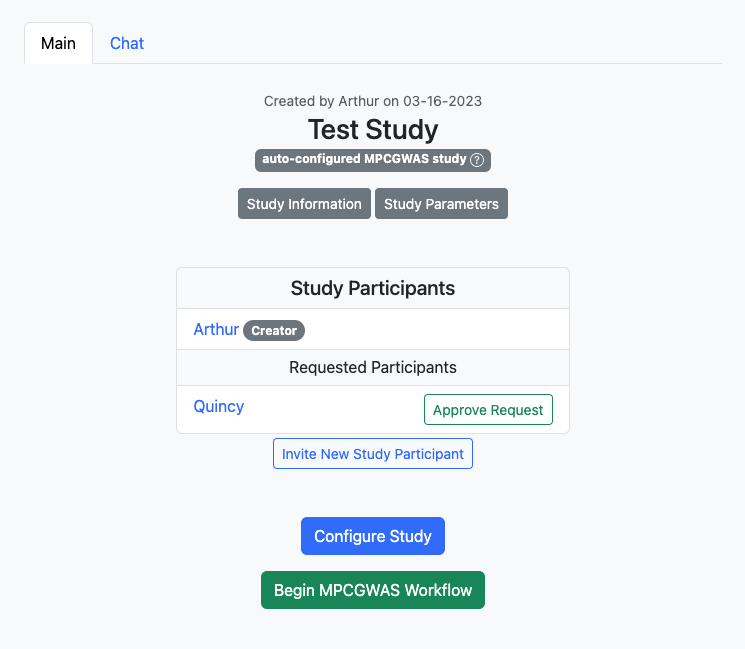
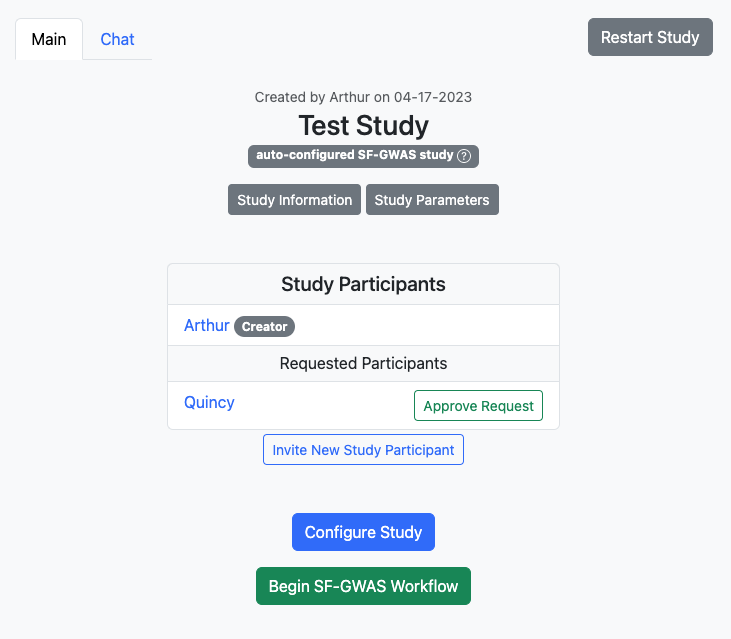
mostly aesthetic changes to the tutorials

diff --git a/src/templates/general/utils/two_person_tutorial.html b/src/templates/general/utils/two_person_tutorial.html
@@ -123,17 +123,23 @@
 
   <div class="mt-4">
     <p>
-      User 2 can then click the "Request to Join Study" button in the Studies page to request to join User 1's study.
+      User 2 can then click the
+      <button class="btn btn-outline-primary btn-sm" style="pointer-events: none;">Request to Join Study</button>
+      button in the Studies page to request to join User 1's study.
     </p>
-    <div class="text-center">
+    <div class="text-center mb-1">
       <img class="img-fluid border border-secondary" style="max-width: 65%" src="static/images/tutorial/request_join.png" alt="">
     </div>
-    <p>Once they have done so, User 1 can click the "Approve Request" button to accept User 2 into their study.</p>
-    <div class="text-center">
+    <p>Once they have done so, User 1 can click the
+      <button class="btn btn-outline-success btn-sm" style="pointer-events: none;">Approve Request</button>
+      button to accept User 2 into their study.</p>
+    <div class="text-center mb-1">
       <img class="img-fluid border border-secondary" style="max-width: 50%" src="static/images/tutorial/approve_request.png" alt="">
     </div>
     <p>
-      <span class="text-muted">(Alternatively, User 1 can invite User 2 with the "Invite New Study Participant" button to send an invite link via email.)</span>
+      <span class="text-muted">(Alternatively, User 1 can invite User 2 with the
+        <button class="btn btn-outline-primary btn-sm" style="pointer-events: none;">Invite New Study Participant</button>
+        button to send an invite link via email.)</span>
     </p>
     <p>
       Then both users will follow the instructions on the study page to configure their study. Note that this will require the users to use their own GCP projects, in contrast to the first tutorial. If you are unfamiliar with Google Cloud, Google has great documentation and instructions:
@@ -142,7 +148,11 @@
       <$1.)</span>
     </p>
     <p class="text-muted">
-      Note: You need to click the blue "Save" and "Confirm" buttons for your configuration changes to take effect.
+      Note: You need to click the
+      <button class="btn btn-primary btn-sm" style="pointer-events: none;">Save</button>
+      and
+      <button class="btn btn-primary btn-sm" style="pointer-events: none;">Confirm</button>
+      buttons for your configuration changes to take effect.
     </p>
   </div>
 </div>
@@ -150,7 +160,7 @@
 <div class="row">
   <p>
     Once both users have configured their parts of the study, each user should click the
-    <span class="btn btn-success btn-sm" style="pointer-events: none;">Begin MPC-GWAS Workflow</span>
+    <span class="btn btn-success btn-sm" style="pointer-events: none;">Begin SF-GWAS Workflow</span>
     button (or the equivalent for a different workflow) on their respective study pages (this is the same as in Tutorial 1). The study will run, and you'll be able to see its status on the study page. You may also inspect the newly created VM in your GCP project.
   </p>
 </div>
@@ -158,7 +168,7 @@
 <h4 class="my-4 fw-normal">Results</h4>
 <div class="row">
   <p>
-    The expected runtime for this tutorial is approximately 2 hours (feel free to leave the study page and come back). When the study is complete, each user will be able to download the results file with the association statistics (or principal components, in the case of the PCA workflow) by clicking the "Download results" link on their respective study pages.
+    The expected runtime for this tutorial is approximately 2 hours (feel free to leave the study page and come back). When the study is complete, each user will be able to download the results file with the association statistics (or principal components, in the case of the PCA workflow) by clicking the "<a class="text-decoration-none">Download results</a>" link on their respective study pages.
   </p>
 
   <div class="row p-4 bg-light rounded">

diff --git a/src/templates/general/utils/primary_tutorial.html b/src/templates/general/utils/primary_tutorial.html
@@ -90,7 +90,9 @@
 <div class="row">
   <p>
     You should now see a page that looks something like this
-    <span class="text-muted">(if you instead see the main study page, click the "Configure Study" button to get to this page)</span>:
+    <span class="text-muted">(if you instead see the main study page, click the
+      <button class="btn btn-primary btn-sm" style="pointer-events: none;">Configure Study</button>
+      button to get to this page)</span>:
   </p>
 </div>
 <div class="row my-2">
@@ -174,7 +176,9 @@
 
 <div>
   <p>
-    This is your main study page. Here you can see the status of your study, and you can download the results when the study is complete. You can also click the "Configure Study" button to go back to the configuration page. This is also where you can view the study participants and add more participants to your study. When all participants initiate their study, the joint study will begin. For this demo, you are the only real participant.
+    This is your main study page. Here you can see the status of your study, and you can download the results when the study is complete. You can also click the
+    <button class="btn btn-primary btn-sm" style="pointer-events: none;">Configure Study</button>
+    button to go back to the configuration page. This is also where you can view the study participants and add more participants to your study. When all participants initiate their study, the joint study will begin. For this demo, you are the only real participant.
   </p>
   <p>
     Click the
@@ -191,7 +195,7 @@
 
 <div class="mt-2">
   <p>
-    When the study is complete, you can click the "Download results" link to download the results file with the association statistics.
+    When the study is complete, you can click the "<a class="text-decoration-none">Download results</a>" link to download the results file with the association statistics.
   </p>
 </div>
 

diff --git a/src/static/javascript/firestore.js b/src/static/javascript/firestore.js
@@ -87,8 +87,7 @@ function createTaskElement(task, status, sub_task = false) {
   }
 
   if (task.endsWith("completed") || status.includes("Finished protocol")) {
-    task = task.replace(" completed", "");
-    taskLine.append("<img src='../static/images/check.svg'> " + task);
+    taskLine.append("<img src='../static/images/check.svg'> " + task.replace(" completed", ""));
   } else {
     taskLine.append("<div class='spinner-grow ms-2 me-2' style='width: 16px; height: 16px;'></div> " + task);
   }

diff --git a/src/studies.py b/src/studies.py
@@ -222,11 +222,12 @@ def restart_study(study_title: str) -> Response:
     doc_ref_dict: dict = doc_ref.get().to_dict()
 
     threads = []
-    for participant in doc_ref_dict["personal_parameters"].values():
+    for role, v in enumerate(doc_ref_dict["participants"]):
+        participant = doc_ref_dict["personal_parameters"][v]
         if (gcp_project := participant.get("GCP_PROJECT").get("value")) != "":
             google_cloud_compute = GoogleCloudCompute(study_title.replace(" ", "").lower(), gcp_project)
             for instance in google_cloud_compute.list_instances():
-                if instance[:-1] == create_instance_name(google_cloud_compute.study_title, ""):
+                if instance == create_instance_name(google_cloud_compute.study_title, str(role)):
                     t = Thread(target=google_cloud_compute.delete_instance, args=(instance,))
                     t.start()
                     threads.append(t)
